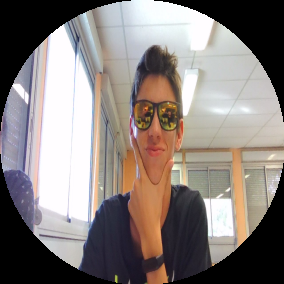
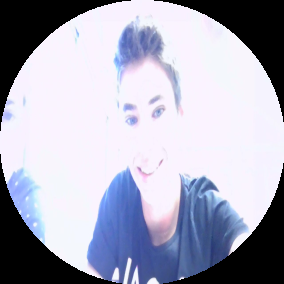
feat : FORMAT'IUT (vraiment) dernier push. Projet terminé ! Merci à tous !!!

diff --git a/src/Lib/TransfertImage.php b/src/Lib/TransfertImage.php
@@ -42,37 +42,20 @@ class TransfertImage
                     $img = file_get_contents($tmp_filename);
                     $img_arrondie = self::getImageArrondieData($img);
                     file_put_contents($tmp_filename, $img_arrondie);
-                    $tempImage = imagecreatefromstring(file_get_contents($_FILES['pdp']['tmp_name']));
-                    imagesavealpha($tempImage, true);
-                    imagepng($tempImage, $_FILES['pdp']['tmp_name']);
-                    imagedestroy($tempImage);
                 }
+                imagepng(imagecreatefromstring(file_get_contents($_FILES['pdp']['tmp_name'])), $_FILES['pdp']['tmp_name']);
             } else {
-                //convert image to png
-                $allowedExtensions = ['jpg', 'jpeg', 'png'];
-                $fileExtension = strtolower(pathinfo($_FILES['pdp']['name'], PATHINFO_EXTENSION));
-                if (in_array($fileExtension, $allowedExtensions)) {
-                    $tempImage = imagecreatefromstring(file_get_contents($_FILES['pdp']['tmp_name']));
-                    imagesavealpha($tempImage, true);
-                    imagepng($tempImage, $_FILES['pdp']['tmp_name']);
-                    imagedestroy($tempImage);
 
-                    $_FILES['pdp']['name'] = "pp_" . ConnexionUtilisateur::getTypeConnecte() . "_" . ConnexionUtilisateur::getLoginUtilisateurConnecte() . ".png";
-                    $ai_id = ControleurMain::uploadFichiers(['pdp'], "afficherProfil")['pdp'];
-                    return $ai_id;
-                } else {
-                    if (ConnexionUtilisateur::getTypeConnecte() == "Etudiants") {
-                        ControleurEtuMain::redirectionFlash('afficherProfil', "danger", "Seuls les fichiers png, jpeg ou jpg sont acceptés");
-                    } else if (ConnexionUtilisateur::getTypeConnecte() == "Entreprise") {
-                        ControleurEntrMain::redirectionFlash('afficherProfil', "danger", "Seuls les fichiers png, jpeg ou jpg sont acceptés");
-                    } else if (ConnexionUtilisateur::getTypeConnecte() == "Administateurs" || ConnexionUtilisateur::getTypeConnecte() == "Personnels" || ConnexionUtilisateur::getTypeConnecte() == "Secretariat") {
-                        ControleurAdminMain::redirectionFlash('afficherProfil', "danger", "Seuls les fichiers png, jpeg ou jpg sont acceptés");
-                    }
-                    die();
-                }
+                //convert image to png
+                //imagepng(imagecreatefromstring(file_get_contents($_FILES['pdp']['tmp_name'])), $_FILES['pdp']['tmp_name']);
+                $tempImage = imagecreatefromstring(file_get_contents($_FILES['pdp']['tmp_name']));
+                imagesavealpha($tempImage, true);
+                imagepng($tempImage, $_FILES['pdp']['tmp_name']);
+                imagedestroy($tempImage);
             }
 
             $_FILES['pdp']['name'] = "pp_" . ConnexionUtilisateur::getTypeConnecte() . "_" . ConnexionUtilisateur::getLoginUtilisateurConnecte() . ".png";
+            //echo $_FILES['pdp']['name']; die();
             $ai_id = ControleurMain::uploadFichiers(['pdp'], "afficherProfil")['pdp'];
             return $ai_id;
         }

diff --git a/src/Service/ServicePersonnel.php b/src/Service/ServicePersonnel.php
@@ -29,11 +29,11 @@ class ServicePersonnel
                     if (!$prof->isEstAdmin()) {
                         $prof->setEstAdmin(true);
                         (new \App\FormatIUT\Modele\Repository\ProfRepository())->modifierObjet($prof);
-                        ControleurAdminMain::redirectionFlash("afficherProfilAdmin", "success", "Permissions mises à jour");
-                    } else ControleurAdminMain::redirectionFlash("afficherProfilAdmin", "warning", "Le professeur est déjà administrateur");
-                } else ControleurAdminMain::redirectionFlash("afficherProfilAdmin", "danger", "Vous n'avez pas les droits requis");
-            } else ControleurAdminMain::redirectionFlash("afficherProfilAdmin", "warning", "Le professeur n'existe pas");
-        } else ControleurAdminMain::redirectionFlash("afficherProfilAdmin", "danger", "Le professeur n'est pas renseigné");
+                        ControleurAdminMain::redirectionFlash("afficherProfil", "success", "Permissions mises à jour");
+                    } else ControleurAdminMain::redirectionFlash("afficherProfil", "warning", "Le professeur est déjà administrateur");
+                } else ControleurAdminMain::redirectionFlash("afficherProfil", "danger", "Vous n'avez pas les droits requis");
+            } else ControleurAdminMain::redirectionFlash("afficherProfil", "warning", "Le professeur n'existe pas");
+        } else ControleurAdminMain::redirectionFlash("afficherProfil", "danger", "Le professeur n'est pas renseigné");
     }
 
     /**
@@ -48,11 +48,11 @@ class ServicePersonnel
                     if ($prof->isEstAdmin()) {
                         $prof->setEstAdmin(false);
                         (new \App\FormatIUT\Modele\Repository\ProfRepository())->modifierObjet($prof);
-                        ControleurAdminMain::redirectionFlash("afficherProfilAdmin", "success", "Permissions mises à jour");
-                    } else ControleurAdminMain::redirectionFlash("afficherProfilAdmin", "warning", "Le professeur n'est pas administrateur");
-                } else ControleurAdminMain::redirectionFlash("afficherProfilAdmin", "danger", "Vous n'avez pas les droits requis");
-            } else ControleurAdminMain::redirectionFlash("afficherProfilAdmin", "warning", "Le professeur n'existe pas");
-        } else ControleurAdminMain::redirectionFlash("afficherProfilAdmin", "danger", "Le professeur n'est pas renseigné");
+                        ControleurAdminMain::redirectionFlash("afficherProfil", "success", "Permissions mises à jour");
+                    } else ControleurAdminMain::redirectionFlash("afficherProfil", "warning", "Le professeur n'est pas administrateur");
+                } else ControleurAdminMain::redirectionFlash("afficherProfil", "danger", "Vous n'avez pas les droits requis");
+            } else ControleurAdminMain::redirectionFlash("afficherProfil", "warning", "Le professeur n'existe pas");
+        } else ControleurAdminMain::redirectionFlash("afficherProfil", "danger", "Le professeur n'est pas renseigné");
     }
 
     /**
